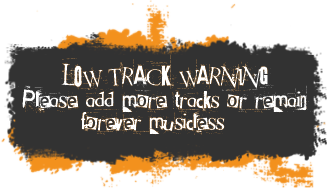
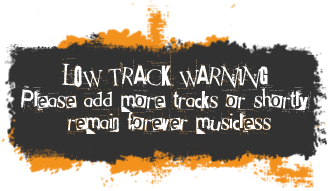
Added Up Next  - changed low tracks warning

Changed region(s): [[0.0606, 0.445, 0.9394, 0.7068], [0.1818, 0.3403, 0.5152, 0.4712], [0.5455, 0.3403, 0.7576, 0.445]]

diff --git a/designs/Layout/index.html b/designs/Layout/index.html
@@ -77,10 +77,7 @@
                 </div>
             </div>
 
-
             <div id="mainContent">
-
-
                 <div id="mainBanner">
                     <div id="slider" class="nivoSlider">
                         <a href="#"><img src="Images/mainbanner-soundwave.jpg" /></a>
@@ -89,8 +86,6 @@
                         <a href="#"><img src="Images/mainbanner-orangeband.jpg" /></a>
                     </div>
                 </div>
-
-
 
                 <div id="mainPage">
                     <div id="pageTitles">
@@ -402,13 +397,56 @@
 
                     </div>
 
+                    <div id="upNext">
 
+
+                        <div class="upnextItem">
+                            <ul>
+                                <li class="unThumb"><img src="Images/upnext-1.jpg" /></li>
+                                <li class="unTrack">
+                                    <span class="trackHeader">Birdy</span><br />
+                                    <span class="trackAlbum">Fire Within - 2013</span>
+                                    <span class="trackTitle">Wings</span> <br />
+                                    <span class="trackAlbum">Time: 4:36</span>
+                                </li>
+                            </ul>
+                        </div>
+
+                        <div class="upnextItem">
+                            <ul>
+                                <li class="unThumb"><img src="Images/upnext-2.jpg" /></li>
+                                <li class="unTrack">
+                                    <span class="trackHeader">Eagles</span><br />
+                                    <span class="trackAlbum">Hotel California - 1977</span>
+                                    <span class="trackTitle">Hotel California</span> <br />
+                                    <span class="trackAlbum">Time: 6:30</span>
+                                </li>
+                            </ul>
+                        </div>
+
+                        <div class="upnextItem">
+                            <ul>
+                                <li class="unThumb"><img src="Images/upnext-3.jpg" /></li>
+                                <li class="unTrack">
+                                    <span class="trackHeader">Pink Floyd</span><br />
+                                    <span class="trackAlbum">Wish You Were Here - 1975</span>
+                                    <span class="trackTitle">Wish You Were Here</span> <br />
+                                    <span class="trackAlbum">Time: 5:40</span>
+                                </li>
+                            </ul>
+                        </div>
+
+                        <div id="trackWarning">
+                            <img src="Images/low-track-warning.png" /></div>
+
+
+
+
+
+
+                    </div>
                 </div>
-
-
             </div>
-
-
             <div id="rightRip"><img src="Images/main-right-rip.png" /></div>
         </div>
 

diff --git a/designs/Layout/CSS/site.css b/designs/Layout/CSS/site.css
@@ -5,24 +5,13 @@
 }
 
 /* Let's get this party started */
-::-webkit-scrollbar {
-    width: 12px;
-}
+::-webkit-scrollbar { width: 12px; }
  
 /* Track */
-::-webkit-scrollbar-track {
-    -webkit-box-shadow: inset 0 0 6px rgba(0,0,0,0.3); 
-    -webkit-border-radius: 10px;
-    border-radius: 10px;
-}
- 
+::-webkit-scrollbar-track { -webkit-box-shadow: inset 0 0 6px rgba(0,0,0,0.3); -webkit-border-radius: 10px; border-radius: 10px; }
+
 /* Handle */
-::-webkit-scrollbar-thumb {
-    -webkit-border-radius: 10px;
-    border-radius: 10px;
-    background: rgba(248,148,0,1); 
-    -webkit-box-shadow: inset 0 0 6px rgba(0,0,0,0.5); 
-}
+::-webkit-scrollbar-thumb { -webkit-border-radius: 10px; border-radius: 10px; background: rgba(248,148,0,1); -webkit-box-shadow: inset 0 0 6px rgba(0,0,0,0.5); }
 
 
 /* Main divs 
@@ -40,7 +29,7 @@
 /* Current Track 
 ############################# */
 #currentTrack           { float:left; background-color:#444; }
-#currentTrack .Info    { margin:0 16px 0 16px; }
+#currentTrack .Info     { margin:0 16px 0 16px; }
 #currentTrack .ripT img { vertical-align:top; }
 #currentTrack .ripB img { vertical-align:bottom; padding-top:10px; }
 #ctCoverArt             { float:left; margin:6px 0 10px 0; }
@@ -104,3 +93,16 @@
 .riArtist           { float:left; width:254px; margin-top:6px!important; }
 .riTime             { float:left; width:70px; }
 .trackHeader        { font-size:1.5em; }
+
+/* Up Next
+############################# */
+#trackWarning           { text-align:center;}
+#upNext                 { float:left; width: 372px; height:640px; overflow-y:scroll; }
+.upnextItem             { border:#bcbcbc 1px solid; height:107px; margin:0 2px 0 20px; }
+.upnextItem ul          { list-style:none; margin:0; padding:0; color:#626262; }
+.upnextItem ul li       { list-style:none; margin:0; padding:0; }
+.unThumb                { float:left; margin:7px 10px 0 7px!important; }
+.unTrack                { float:left; margin-top:7px!important; height:93px; }
+.unTrack .trackHeader   { vertical-align:bottom; }
+.trackAlbum             { float:left; }
+.trackTitle             { float:left; font-size:1.5em; clear:both; margin-top:22px; }
